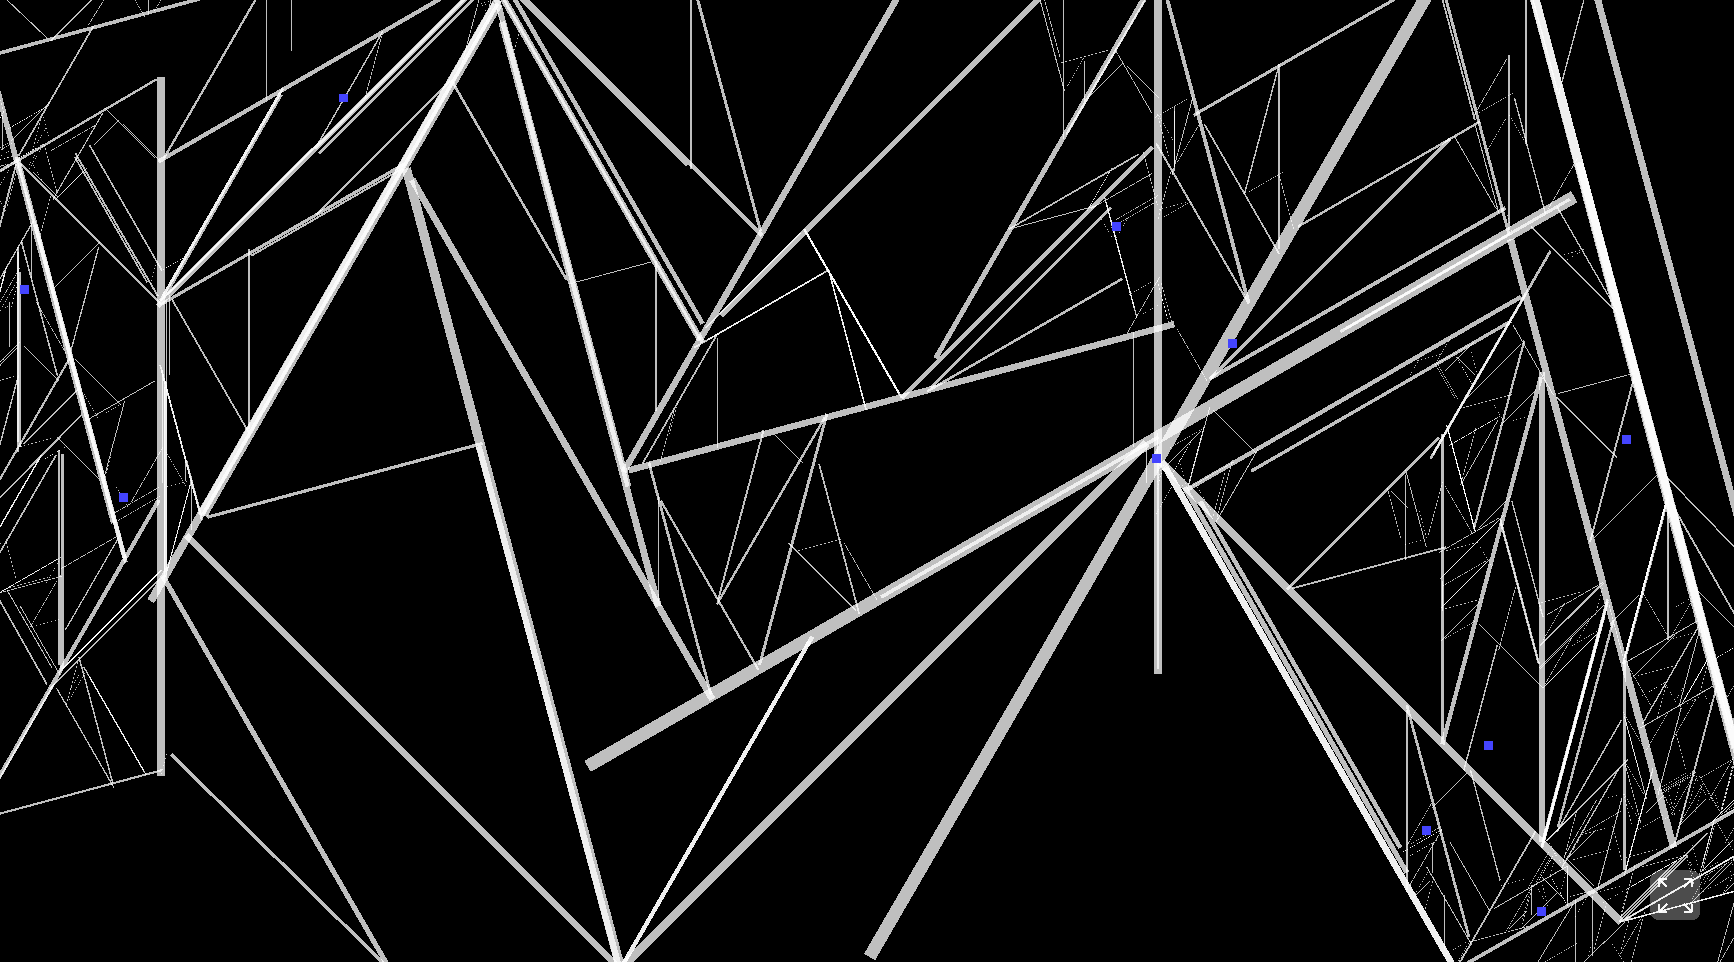
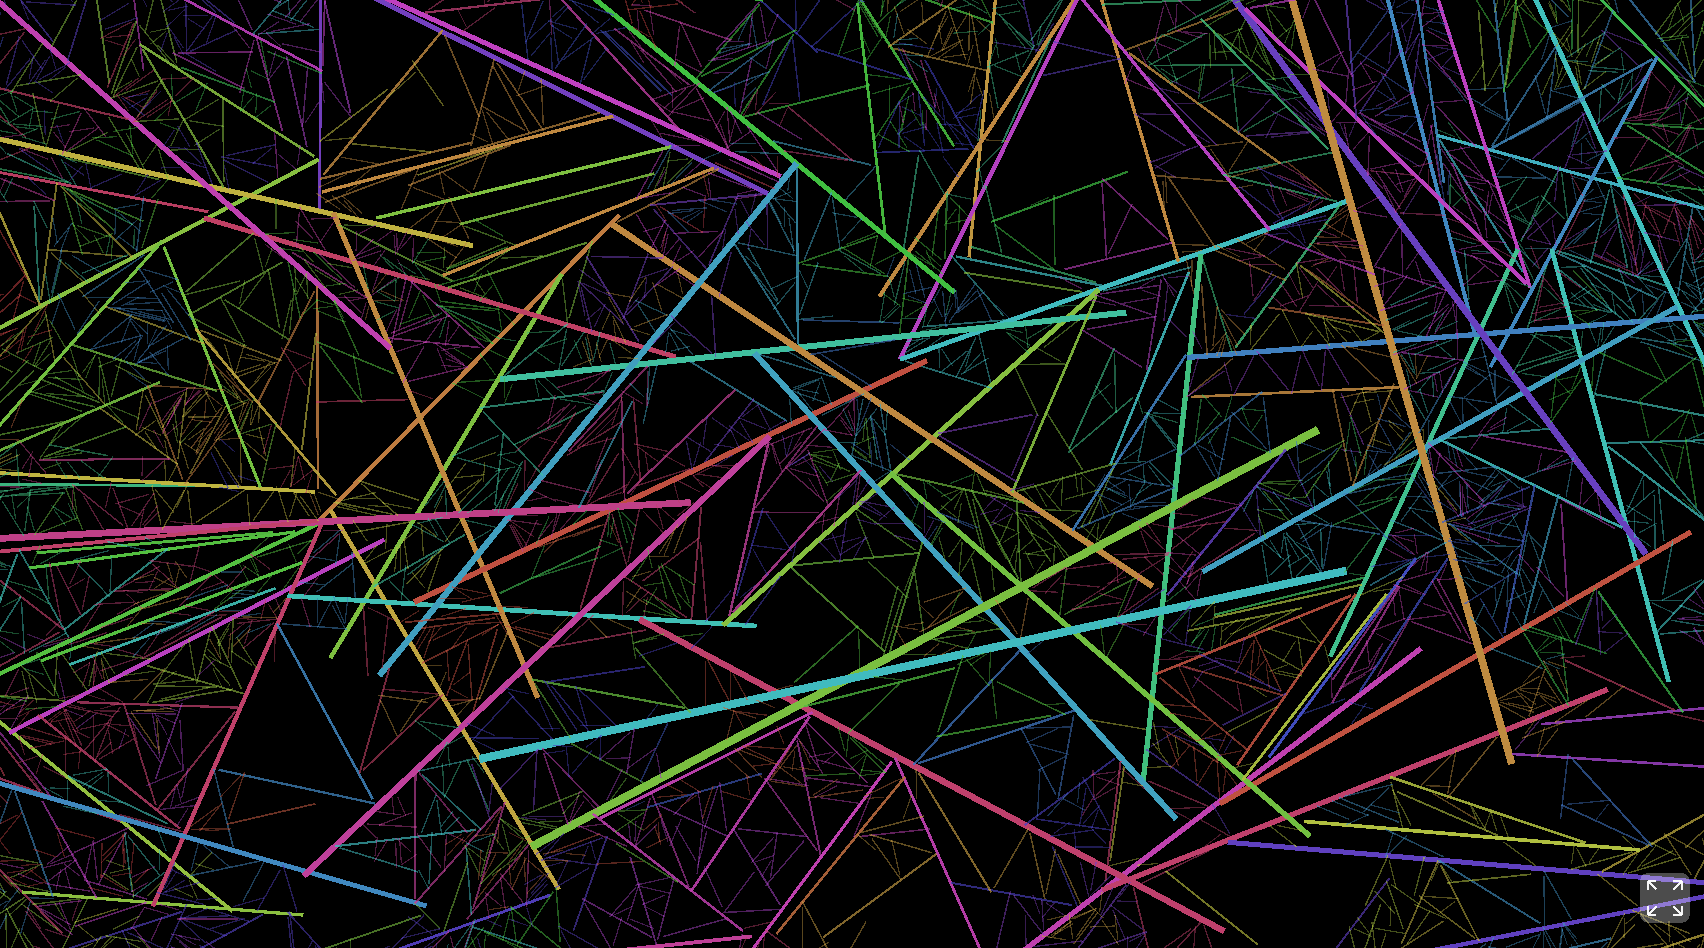
use painting canvas in 3-1 intelligent agent demo

diff --git a/P2-Shape/3-1-intelligent-agent/demo.js b/P2-Shape/3-1-intelligent-agent/demo.js
@@ -7,169 +7,151 @@ function $extend(from, fields) {
 	if( fields.toString !== Object.prototype.toString ) proto.toString = fields.toString;
 	return proto;
 }
-var Cardinal = $hxEnums["Cardinal"] = { __ename__ : true, __constructs__ : ["North","South","East","West"]
-	,North: {_hx_index:0,__enum__:"Cardinal",toString:$estr}
-	,South: {_hx_index:1,__enum__:"Cardinal",toString:$estr}
-	,East: {_hx_index:2,__enum__:"Cardinal",toString:$estr}
-	,West: {_hx_index:3,__enum__:"Cardinal",toString:$estr}
-};
-Cardinal.__empty_constructs__ = [Cardinal.North,Cardinal.South,Cardinal.East,Cardinal.West];
-var Agent = function(x,y,screenWidth,screenHeight) {
-	this.intersections = [];
-	this.cardinal = Cardinal.North;
-	this.position = [x,y];
-	this.lastBounce = this.position;
-	this.bounds = { width : screenWidth, height : screenHeight};
+var Agent = function(color) {
+	this.MIN_LENGTH = 20;
+	this.color = color;
+	var $window = hxd_Window.getInstance();
+	this.angle = Math.random() * Math.PI / 2;
+	this.position = this.lastPosition = this.lastBounce = [$window.get_width() * Math.random(),$window.get_height() * Math.random()];
 	this.randomDirection();
 };
 Agent.__name__ = "Agent";
-Agent.renderLines = function(graphics,maxLen) {
-	var _g = 0;
-	var _g1 = Agent.lines;
-	while(_g < _g1.length) {
-		var line = _g1[_g];
-		++_g;
-		var this1 = Vector.sub(line.start,line.end);
+Agent.prototype = {
+	step: function(size,graphics,lastFrame) {
+		this.lastPosition = this.position;
+		this.position = Vector.add(this.position,Vector.scale(this.direction,size));
+		if(this.enforceBounds() || this.crossedAnyLines(lastFrame)) {
+			this.emitLine(graphics);
+			this.randomDirection();
+			this.position = Vector.add(this.position,Vector.scale(this.direction,size));
+			this.lastPosition = this.position;
+			this.lastBounce = this.position;
+		}
+	}
+	,emitLine: function(graphics) {
+		var this1 = Vector.sub(this.lastBounce,this.position);
 		var sum = 0.0;
-		var _g2 = 0;
-		while(_g2 < this1.length) {
-			var val = this1[_g2];
-			++_g2;
+		var _g = 0;
+		while(_g < this1.length) {
+			var val = this1[_g];
+			++_g;
 			sum += val * val;
 		}
-		var length = Math.sqrt(sum);
-		var normed = length / maxLen;
-		var lineWidth = 20 * normed;
-		graphics.lineStyle(lineWidth,16777215,0.75);
-		var x = line.start[0];
-		var y = line.start[1];
+		var len = Math.sqrt(sum);
+		if(len < this.MIN_LENGTH) {
+			return;
+		}
+		var normLen = len / 500;
+		var lineWidth = 1 + normLen * 4;
+		var lineTrans = 0.6 + normLen * 2 * 0.4;
+		graphics.beginFill(this.color,lineTrans);
+		graphics.lineStyle(lineWidth,this.color,lineTrans);
+		var x = this.lastBounce[0];
+		var y = this.lastBounce[1];
 		graphics.flush();
 		graphics.addVertex(x,y,graphics.curR,graphics.curG,graphics.curB,graphics.curA,x * graphics.ma + y * graphics.mc + graphics.mx,x * graphics.mb + y * graphics.md + graphics.my);
-		var x1 = line.end[0];
-		var y1 = line.end[1];
-		graphics.addVertex(x1,y1,graphics.curR,graphics.curG,graphics.curB,graphics.curA,x1 * graphics.ma + y1 * graphics.mc + graphics.mx,x1 * graphics.mb + y1 * graphics.md + graphics.my);
-	}
-};
-Agent.prototype = {
-	onResize: function(screenWidth,screenHeight) {
-		this.bounds = { width : screenWidth, height : screenHeight};
-		Agent.lines = [];
-	}
-	,step: function(size) {
-		this.position = Vector.add(this.position,Vector.scale(this.direction,size));
-		if(this.enforceBounds() || this.anyCross()) {
-			var this1 = Vector.sub(this.lastBounce,this.position);
-			var sum = 0.0;
-			var _g = 0;
-			while(_g < this1.length) {
-				var val = this1[_g];
-				++_g;
-				sum += val * val;
-			}
-			if(Math.sqrt(sum) > 20) {
-				Agent.lines.push({ start : this.lastBounce, end : this.position});
-			}
-			this.randomDirection();
-			this.lastBounce = Vector.add(this.position,Vector.scale(this.direction,size));
-		}
-		var tmp = Agent.lines.length > 10000;
+		var x = this.position[0];
+		var y = this.position[1];
+		graphics.addVertex(x,y,graphics.curR,graphics.curG,graphics.curB,graphics.curA,x * graphics.ma + y * graphics.mc + graphics.mx,x * graphics.mb + y * graphics.md + graphics.my);
+		graphics.endFill();
 	}
 	,enforceBounds: function() {
-		var enforced = false;
-		if(this.position[0] <= 0) {
-			enforced = true;
-			this.position[0] = 0;
-		} else if(this.position[0] >= this.bounds.width) {
-			enforced = true;
-			var val = this.bounds.width;
-			this.position[0] = val;
-		}
-		if(this.position[1] <= 0) {
-			enforced = true;
-			this.position[1] = 0;
-		} else if(this.position[1] >= this.bounds.height) {
-			enforced = true;
-			var val = this.bounds.height;
-			this.position[1] = val;
-		}
-		return enforced;
+		var $window = hxd_Window.getInstance();
+		var clampedX = this.clamp(this.position[0],0,$window.get_width());
+		var clampedY = this.clamp(this.position[1],0,$window.get_height());
+		var val = clampedX.at;
+		this.position[0] = val;
+		var val = clampedY.at;
+		this.position[1] = val;
+		return !(clampedX.inRange && clampedY.inRange);
 	}
-	,anyCross: function() {
-		var current = { start : this.lastBounce, end : this.position};
+	,clamp: function(a,start,end) {
+		if(a <= start) {
+			return { at : start, inRange : false};
+		} else if(a >= end) {
+			return { at : end, inRange : false};
+		} else {
+			return { at : a, inRange : true};
+		}
+	}
+	,crossedAnyLines: function(pixels) {
+		if(this.pixelAt(this.position,pixels) != 0) {
+			return true;
+		}
+		var line = Vector.sub(this.position,this.lastPosition);
+		var sum = 0.0;
 		var _g = 0;
-		var _g1 = Agent.lines;
-		while(_g < _g1.length) {
-			var line = _g1[_g];
+		while(_g < line.length) {
+			var val = line[_g];
 			++_g;
-			if(this.intersect(current,line)) {
+			sum += val * val;
+		}
+		var len = Math.sqrt(sum);
+		var dir = Vector.scale(line,1 / len);
+		var _g = 1;
+		var _g1 = Math.floor(len);
+		while(_g < _g1) {
+			var i = _g++;
+			var p = Vector.add(this.lastPosition,Vector.scale(dir,i));
+			if(this.pixelAt(p,pixels) != 0) {
 				return true;
 			}
 		}
 		return false;
 	}
-	,intersect: function(A,B) {
-		var Abar = Vector.sub(A.end,A.start);
-		var Bbar = Vector.sub(B.end,B.start);
-		var div = Abar[0] * Bbar[1] - Abar[1] * Bbar[0];
-		if(Math.abs(div) <= 0.05) {
-			return false;
-		}
-		var u_top = (B.start[0] - A.start[0]) * Abar[1] - (B.start[1] - A.start[1]) * Abar[0];
-		var u = u_top / div;
-		var t_top = (B.start[0] - A.start[0]) * Bbar[1] - (B.start[1] - A.start[1]) * Bbar[0];
-		var t = t_top / div;
-		if(u > 0 && u < 1 && (t > 0 && t < 1)) {
-			this.intersections.push(Vector.add(B.start,Vector.scale(Vector.sub(B.end,B.start),u)));
-			return true;
-		}
-		return false;
+	,pixelAt: function(v,pixels) {
+		return pixels.getPixel(Math.round(v[0]),Math.round(v[1]));
 	}
 	,render: function(graphics) {
-		graphics.beginFill(4474111,1.0);
-		graphics.lineStyle(1,4474111);
-		graphics.drawRect(this.position[0] - 4,this.position[1] - 4,8,8);
+		graphics.beginFill(this.color);
+		graphics.drawCircle(this.position[0],this.position[1],2,8);
 		graphics.endFill();
+		graphics.lineStyle(1,16777215,1.0);
+		var x = this.lastBounce[0];
+		var y = this.lastBounce[1];
+		graphics.flush();
+		graphics.addVertex(x,y,graphics.curR,graphics.curG,graphics.curB,graphics.curA,x * graphics.ma + y * graphics.mc + graphics.mx,x * graphics.mb + y * graphics.md + graphics.my);
+		var x = this.position[0];
+		var y = this.position[1];
+		graphics.addVertex(x,y,graphics.curR,graphics.curG,graphics.curB,graphics.curA,x * graphics.ma + y * graphics.mc + graphics.mx,x * graphics.mb + y * graphics.md + graphics.my);
 	}
 	,randomDirection: function() {
-		var tmp;
-		switch(this.cardinal._hx_index) {
-		case 0:
-			tmp = Cardinal.South;
-			break;
-		case 1:
-			tmp = Cardinal.North;
-			break;
-		case 2:
-			tmp = Cardinal.West;
-			break;
-		case 3:
-			tmp = Cardinal.East;
-			break;
-		}
-		this.cardinal = tmp;
-		var root;
-		switch(this.cardinal._hx_index) {
-		case 0:
-			root = Math.PI / 2;
-			break;
-		case 1:
-			root = 3.0 * Math.PI / 2;
-			break;
-		case 2:
-			root = Math.PI;
-			break;
-		case 3:
-			root = 0;
-			break;
-		}
-		var segments = 5;
-		var increment = Math.PI / 2 / (segments + 1);
-		var randNorm = -1 + Math.random() * 2.0;
-		var rootOffset = 1 + Math.round(randNorm * (segments - 1));
-		var angle = root + rootOffset * increment;
-		this.direction = [Math.cos(angle),Math.sin(angle)];
+		var norm = Math.random() * 2 - 1.0;
+		var sign = norm / Math.abs(norm);
+		var offset = sign * (Math.PI / 8) + norm * (Math.PI / 4);
+		this.angle += Math.PI;
+		this.angle += offset;
+		this.direction = [Math.cos(this.angle),Math.sin(this.angle)];
 	}
 	,__class__: Agent
+};
+var Canvas = function(parent) {
+	this.window = hxd_Window.getInstance();
+	this.window.addResizeEvent($bind(this,this.onResize));
+	this.texture = new h3d_mat_Texture(this.window.get_width(),this.window.get_height(),[h3d_mat_TextureFlags.Target],hxd_PixelFormat.RGBA);
+	this.bmp = new h2d_Bitmap(h2d_Tile.fromTexture(this.texture),parent);
+	this.pixels = this.texture.capturePixels();
+	this.s2d = new h2d_Scene();
+	this.graphics = new h2d_Graphics(this.s2d);
+};
+Canvas.__name__ = "Canvas";
+Canvas.prototype = {
+	currentPixels: function() {
+		return this.pixels;
+	}
+	,onResize: function() {
+		this.texture.resize(this.window.get_width(),this.window.get_height());
+		this.bmp.set_tile(h2d_Tile.fromTexture(this.texture));
+		this.pixels.dispose();
+		this.pixels = this.texture.capturePixels();
+	}
+	,update: function() {
+		this.s2d.drawTo(this.texture);
+		this.graphics.clear();
+		this.pixels.dispose();
+		this.pixels = this.texture.capturePixels();
+	}
+	,__class__: Canvas
 };
 var EReg = function(r,opt) {
 	this.r = new RegExp(r,opt.split("u").join(""));
@@ -534,7 +516,6 @@ hxd_App.prototype = {
 };
 var Main = function() {
 	this.agents = [];
-	this.gridSize = 100;
 	hxd_App.call(this);
 };
 Main.__name__ = "Main";
@@ -544,52 +525,46 @@ Main.main = function() {
 Main.__super__ = hxd_App;
 Main.prototype = $extend(hxd_App.prototype,{
 	init: function() {
+		this.canvas = new Canvas(this.s2d);
+		this.preview = new h2d_Graphics(this.s2d);
 		new FullscreenButton(this.s2d);
-		this.graphics = new h2d_Graphics(this.s2d);
+		this.resetAgents();
 		hxd_Window.getInstance().addEventTarget($bind(this,this.onEvent));
-		var _g = [];
-		_g.push(new Agent(Math.random() * this.s2d.width,Math.random() * this.s2d.height,this.s2d.width,this.s2d.height));
-		_g.push(new Agent(Math.random() * this.s2d.width,Math.random() * this.s2d.height,this.s2d.width,this.s2d.height));
-		_g.push(new Agent(Math.random() * this.s2d.width,Math.random() * this.s2d.height,this.s2d.width,this.s2d.height));
-		_g.push(new Agent(Math.random() * this.s2d.width,Math.random() * this.s2d.height,this.s2d.width,this.s2d.height));
-		_g.push(new Agent(Math.random() * this.s2d.width,Math.random() * this.s2d.height,this.s2d.width,this.s2d.height));
-		_g.push(new Agent(Math.random() * this.s2d.width,Math.random() * this.s2d.height,this.s2d.width,this.s2d.height));
-		_g.push(new Agent(Math.random() * this.s2d.width,Math.random() * this.s2d.height,this.s2d.width,this.s2d.height));
-		_g.push(new Agent(Math.random() * this.s2d.width,Math.random() * this.s2d.height,this.s2d.width,this.s2d.height));
-		_g.push(new Agent(Math.random() * this.s2d.width,Math.random() * this.s2d.height,this.s2d.width,this.s2d.height));
-		_g.push(new Agent(Math.random() * this.s2d.width,Math.random() * this.s2d.height,this.s2d.width,this.s2d.height));
-		this.agents = _g;
 	}
-	,onEvent: function(event) {
-		switch(event.kind._hx_index) {
+	,onResize: function() {
+		this.resetAgents();
+	}
+	,onEvent: function(e) {
+		switch(e.kind._hx_index) {
 		case 1:
-			this.onResize();
+			this.resetAgents();
 			break;
 		case 9:
+			this.preview.set_visible(!this.preview.visible);
 			break;
 		default:
 		}
 	}
-	,onResize: function() {
-		var _g = 0;
-		var _g1 = this.agents;
-		while(_g < _g1.length) {
-			var agent = _g1[_g];
-			++_g;
-			agent.onResize(this.s2d.width,this.s2d.height);
+	,resetAgents: function() {
+		var _g = [];
+		var _g1 = 0;
+		while(_g1 < 60) {
+			var i = _g1++;
+			_g.push(new Agent(this.colorFor(Math.PI * 2 * Math.random(),0.5)));
 		}
+		this.agents = _g;
 	}
 	,update: function(dt) {
-		this.graphics.clear();
-		Agent.renderLines(this.graphics,this.s2d.width);
+		this.preview.clear();
 		var _g = 0;
 		var _g1 = this.agents;
 		while(_g < _g1.length) {
 			var agent = _g1[_g];
 			++_g;
-			agent.step(300 * dt);
-			agent.render(this.graphics);
+			agent.step(300 * dt,this.canvas.graphics,this.canvas.currentPixels());
+			agent.render(this.preview);
 		}
+		this.canvas.update();
 	}
 	,lerp: function(x,start,end) {
 		return x * (end - start) + start;
@@ -58203,7 +58178,6 @@ var Enum = { };
 haxe_ds_ObjectMap.count = 0;
 haxe_MainLoop.add(hxd_System.updateCursor,-1);
 js_Boot.__toStr = ({ }).toString;
-Agent.lines = [];
 format_gif_Tools.LN2 = Math.log(2);
 format_mp3_MPEG.V1 = 3;
 format_mp3_MPEG.V2 = 2;

diff --git a/P2-Shape/3-1-intelligent-agent/index.md b/P2-Shape/3-1-intelligent-agent/index.md
@@ -1,16 +1,11 @@
 ---
 layout: demo
 section: P2 Shape
+title: Intelligent Agents
 order: 3.1
-title: Intelligent Agent
 ---
 
 # Usage
 
-* click anywhere on the screen to reset the number of lines
-
-# Implementation Notes
-
-This is crazy inefficient right now. The application will slow down as the
-number of lines increases.
-
+* Click anywhere on the screen to reposition the agents
+* Press any key to hid the agent's current position and tail
